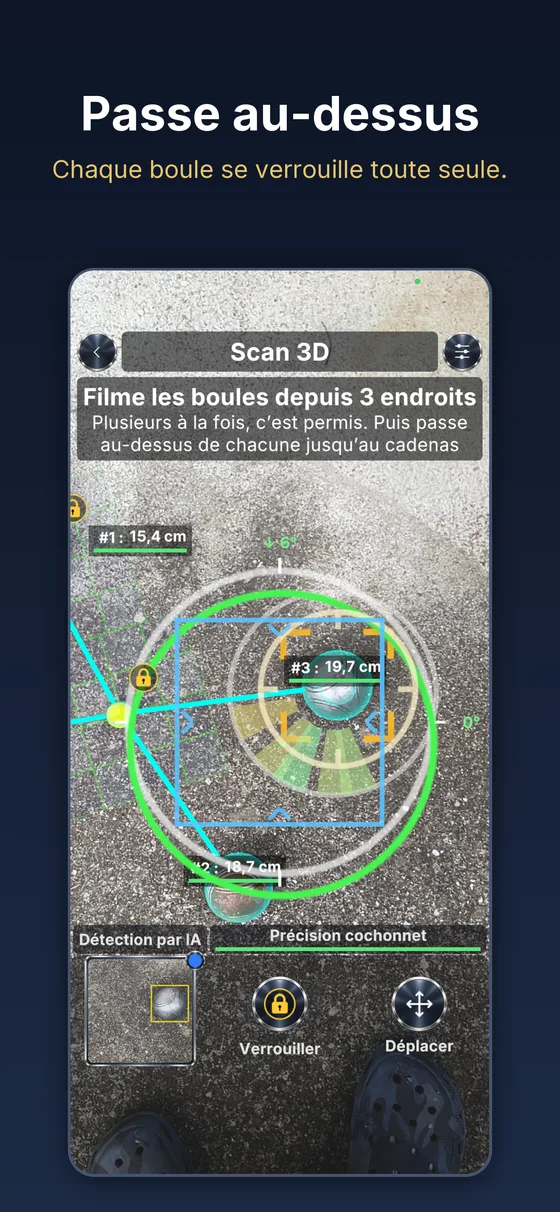
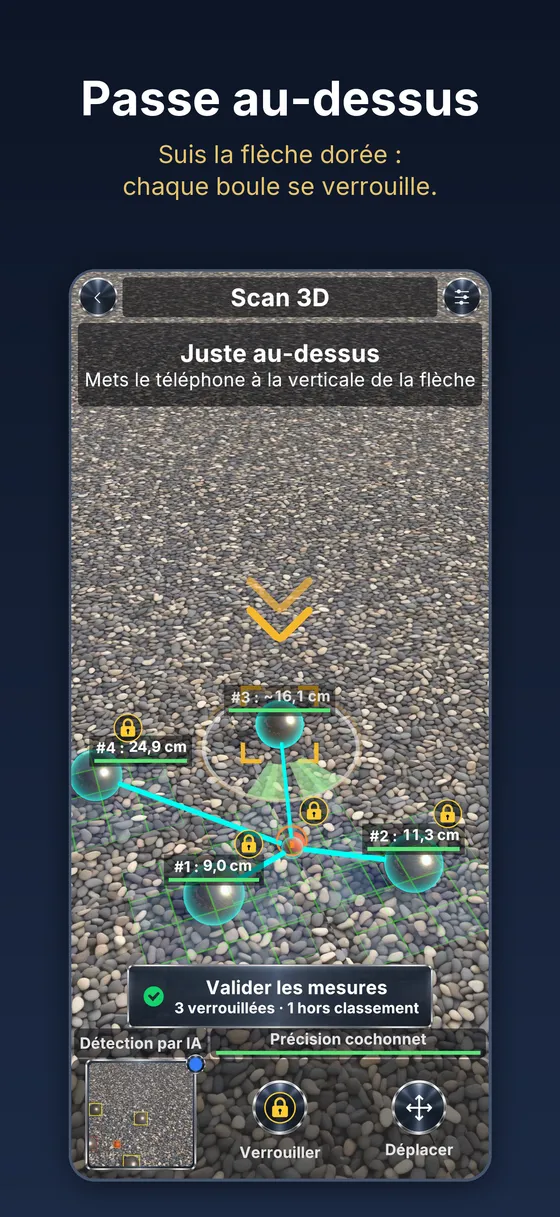
[FIXED] Pétanque Scan pages: the stores' eight 1.2.15 visuals and captions replace the 1.2.11 ones (old UI), in all five languages

diff --git a/src/data/petanqueScanner.ts b/src/data/petanqueScanner.ts
@@ -46,7 +46,7 @@ export const HERO = '/assets/petanque-ar/hero-fr.avif?v=1213';
 
 /** The store visuals carry their caption and the app's own UI, so each language gets its set. */
 const screens = (suffix: string) =>
-	[1, 2, 3, 4, 5, 6].map((n) => `/assets/petanque-ar/screen-0${n}${suffix}.webp`);
+	[1, 2, 3, 4, 5, 6, 7, 8].map((n) => `/assets/petanque-ar/screen-0${n}${suffix}.webp`);
 export const SCREENS: Record<LandingLang, string[]> = {
 	fr: screens('-fr'),
 	en: screens('-en'),
@@ -701,11 +701,13 @@ export const download: Record<LandingLang, DownloadCopy> = {
 		kicker: 'Réalité augmentée',
 		shots: [
 			'Qui a le point ? L’écart de chaque boule, jusqu’au millimètre.',
-			'Vise le cochonnet. 3 visées, il est placé.',
-			'Passe au-dessus. Chaque boule se verrouille toute seule.',
+			'Vise le cochonnet. Tourne autour du jeu, il se place tout seul.',
+			'Passe au-dessus. Suis la flèche dorée : chaque boule se verrouille.',
+			'Toutes les distances. Bord à bord, calibre de chaque boule compris.',
 			'Le verdict d’en haut. Boules classées, écarts affichés.',
 			'Pas d’AR ? Une photo suffit. Le mode photo marche sur tous les téléphones.',
-			'10 scans gratuits par jour. Une courte pub les recharge. Premium à vie : illimité, sans pub.',
+			'Deux façons de mesurer. Scan 3D pour la précision, photo pour aller vite.',
+			'10 scans gratuits par jour. Une courte pub les recharge. Premium à vie : illimité, sans pub.',
 		],
 		pause: 'Mettre l’animation en pause',
 		videoTitle: 'En vidéo',
@@ -716,10 +718,12 @@ export const download: Record<LandingLang, DownloadCopy> = {
 		kicker: 'Augmented reality',
 		shots: [
 			'Who has the point? Each boule’s gap, down to the millimetre.',
-			'Aim at the jack. 3 shots and it is placed.',
-			'Hold it above. Each boule locks by itself.',
+			'Aim at the jack. Walk round the game, it places itself.',
+			'Hold it above. Follow the gold arrow: each boule locks.',
+			'Every distance. Edge to edge, each boule’s size included.',
 			'The verdict from above. Boules ranked, gaps shown.',
 			'No AR? One photo will do. Photo mode works on every phone.',
+			'Two ways to measure. 3D scan for precision, photo for speed.',
 			'10 free scans a day. A short ad refills them. Lifetime Premium: unlimited, no ads.',
 		],
 		pause: 'Pause the animation',
@@ -731,10 +735,12 @@ export const download: Record<LandingLang, DownloadCopy> = {
 		kicker: 'Realidad aumentada',
 		shots: [
 			'¿Quién tiene el punto? La distancia de cada bola, hasta el milímetro.',
-			'Apunta al boliche. 3 tomas y queda situado.',
-			'Colócate encima. Cada bola se bloquea sola.',
+			'Apunta al boliche. Rodea el juego, se coloca solo.',
+			'Colócate encima. Sigue la flecha dorada: cada bola se bloquea.',
+			'Todas las distancias. Borde a borde, con el calibre de cada bola.',
 			'El veredicto desde arriba. Bolas clasificadas, distancias a la vista.',
 			'¿Sin AR? Basta una foto. El modo foto funciona en todos los móviles.',
+			'Dos formas de medir. Escaneo 3D para la precisión, foto para ir rápido.',
 			'10 escaneos gratis al día. Un anuncio corto los recarga. Premium de por vida: ilimitado, sin anuncios.',
 		],
 		pause: 'Pausar la animación',
@@ -746,10 +752,12 @@ export const download: Record<LandingLang, DownloadCopy> = {
 		kicker: 'Erweiterte Realität',
 		shots: [
 			'Wer hat den Punkt? Der Abstand jeder Kugel, bis auf den Millimeter.',
-			'Ziel auf die Zielkugel. 3 Aufnahmen, schon ist sie platziert.',
-			'Halte es darüber. Jede Kugel rastet von selbst ein.',
+			'Ziel auf die Zielkugel. Geh ums Spiel herum, sie platziert sich selbst.',
+			'Halte es darüber. Folge dem goldenen Pfeil: Jede Kugel rastet ein.',
+			'Alle Abstände. Rand zu Rand, mit dem Kaliber jeder Kugel.',
 			'Das Urteil von oben. Kugeln gewertet, Abstände sichtbar.',
 			'Kein AR? Ein Foto reicht. Der Fotomodus läuft auf jedem Handy.',
+			'Zwei Wege zu messen. 3D-Scan für Präzision, Foto für Tempo.',
 			'10 Gratis-Scans pro Tag. Kurze Werbung lädt sie auf. Premium auf Lebenszeit: unbegrenzt, ohne Werbung.',
 		],
 		pause: 'Animation anhalten',
@@ -761,10 +769,12 @@ export const download: Record<LandingLang, DownloadCopy> = {
 		kicker: 'Realtà aumentata',
 		shots: [
 			'Chi ha il punto? La distanza di ogni boccia, fino al millimetro.',
-			'Inquadra il pallino. 3 scatti ed è posizionato.',
-			'Tienilo sopra. Ogni boccia si blocca da sola.',
+			'Inquadra il pallino. Gira intorno al gioco, si posiziona da solo.',
+			'Tienilo sopra. Segui la freccia dorata: ogni boccia si blocca.',
+			'Tutte le distanze. Bordo a bordo, con il calibro di ogni boccia.',
 			'Il verdetto dall’alto. Bocce in classifica, distanze in vista.',
 			'Niente AR? Basta una foto. La modalità foto funziona su ogni telefono.',
+			'Due modi per misurare. Scansione 3D per la precisione, foto per la velocità.',
 			'10 scansioni gratis al giorno. Un breve annuncio le ricarica. Premium a vita: illimitato, senza pubblicità.',
 		],
 		pause: 'Metti in pausa l’animazione',
